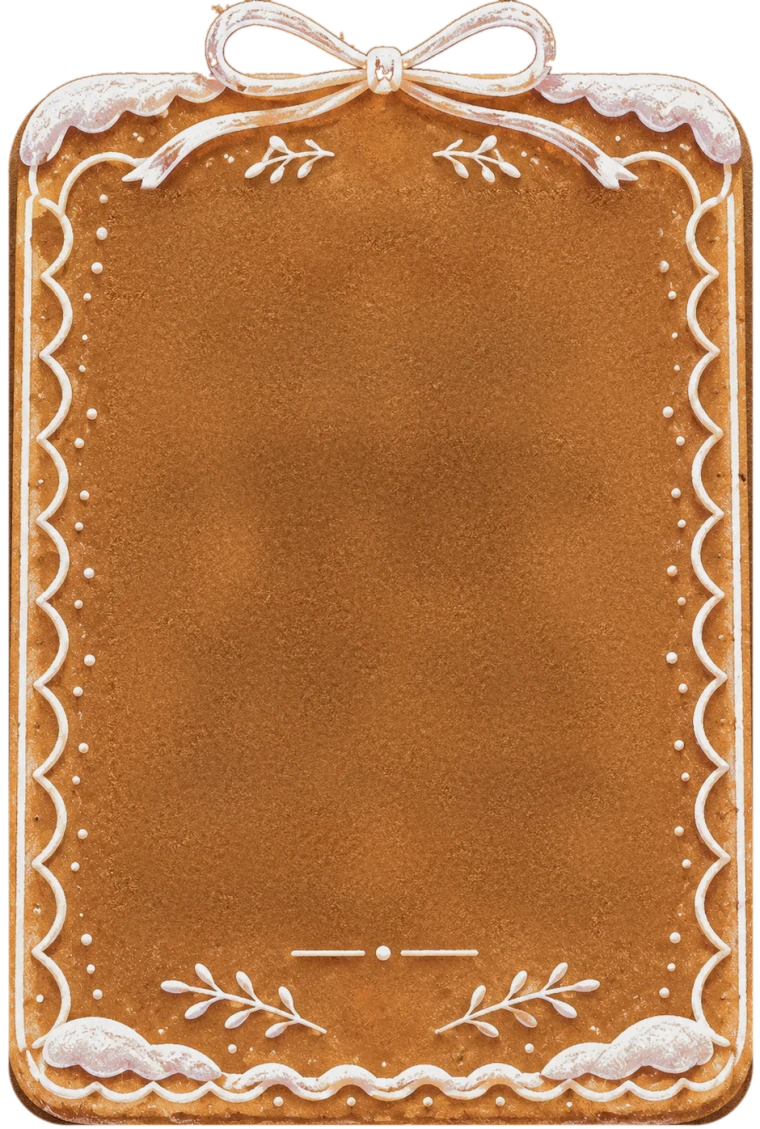
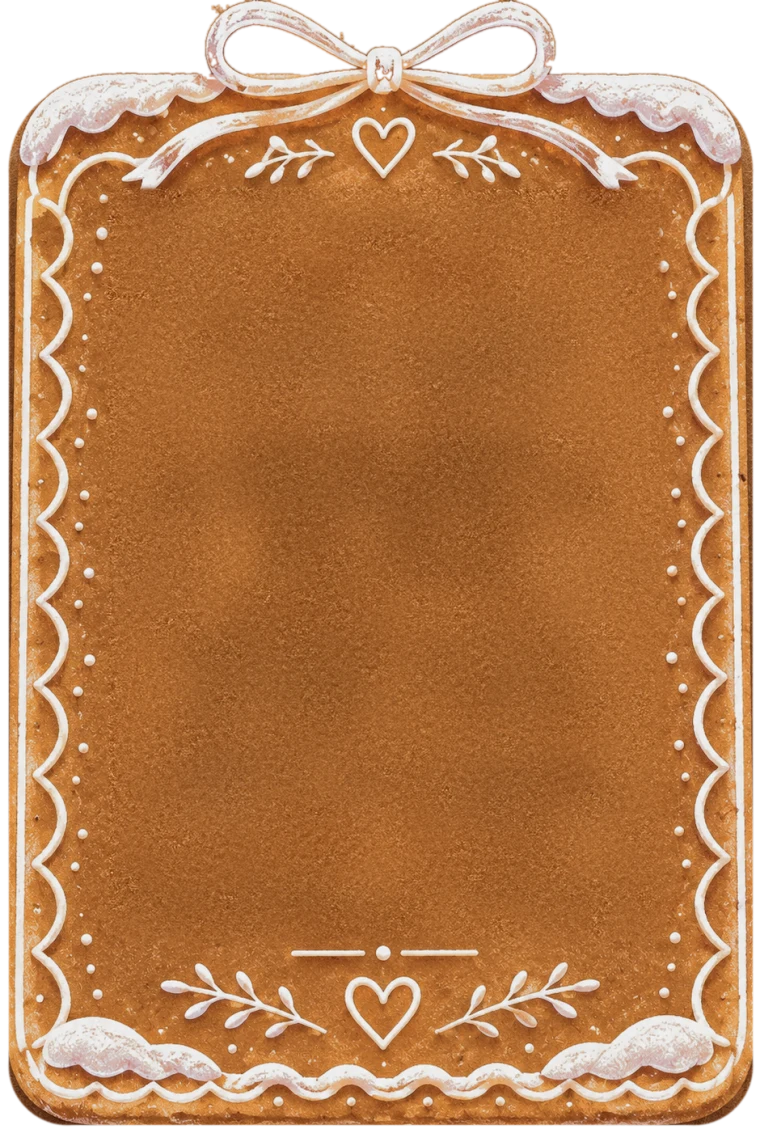
Herzen wieder auf der Karte
Claude-Session: https://claude.ai/code/session_01Th1ZwhDaFACmJguCpPspif

Changed region(s): [[0.4539, 0.868, 0.575, 0.93], [0.4539, 0.093, 0.5447, 0.155]]

diff --git a/index.html b/index.html
@@ -136,11 +136,6 @@
     position: relative; aspect-ratio: 760 / 1129;
     background: url('karte-lebkuchen.webp') center / 100% 100% no-repeat;
   }
-  .card .orn { position: absolute; transform: translate(-50%, -50%);
-    filter: drop-shadow(0 .35cqw .2cqw rgba(60,25,5,.55)); }
-  .card .orn svg { display: block; width: 100%; height: 100%; }
-  .card .orn.top { left: 50.5%; top: 13.1%; width: 10.5%; }
-  .card .orn.bot { left: 50.4%; top: 89.7%; width: 11.5%; }
   .card .inner {
     --k: 1;
     position: absolute; left: 13%; right: 13%; top: 18.5%; bottom: 17%;
@@ -198,34 +193,6 @@
   </button>
   <div class="cardwrap">
     <div class="card">
-      <div class="orn top"><svg viewBox="-24 -24 48 48" fill="none" stroke-linecap="round" stroke-linejoin="round">
-          <defs><g id="arm"><path d="M0 -3 V-19 M0 -9.5 L-5 -14 M0 -9.5 L5 -14 M0 -15 L-3 -18.5 M0 -15 L3 -18.5"/></g></defs>
-          <g stroke="#e6d8c6" stroke-width="3.6" transform="translate(0 .6)">
-            <use href="#arm"/><use href="#arm" transform="rotate(60)"/><use href="#arm" transform="rotate(120)"/>
-            <use href="#arm" transform="rotate(180)"/><use href="#arm" transform="rotate(240)"/><use href="#arm" transform="rotate(300)"/>
-          </g>
-          <g stroke="#fffaf3" stroke-width="2.9">
-            <use href="#arm"/><use href="#arm" transform="rotate(60)"/><use href="#arm" transform="rotate(120)"/>
-            <use href="#arm" transform="rotate(180)"/><use href="#arm" transform="rotate(240)"/><use href="#arm" transform="rotate(300)"/>
-          </g>
-          <circle r="3.2" fill="#fffaf3"/><circle cx="-.8" cy="-.9" r="1.1" fill="#ffffff"/>
-          <g fill="#fffaf3"><circle cy="-21.5" r="1.4"/><circle cy="-21.5" r="1.4" transform="rotate(60)"/><circle cy="-21.5" r="1.4" transform="rotate(120)"/>
-          <circle cy="-21.5" r="1.4" transform="rotate(180)"/><circle cy="-21.5" r="1.4" transform="rotate(240)"/><circle cy="-21.5" r="1.4" transform="rotate(300)"/></g>
-        </svg></div>
-      <div class="orn bot"><svg viewBox="-24 -24 48 48" fill="none" stroke-linecap="round" stroke-linejoin="round">
-          <defs><g id="arm2"><path d="M0 -3 V-19 M0 -9.5 L-5 -14 M0 -9.5 L5 -14 M0 -15 L-3 -18.5 M0 -15 L3 -18.5"/></g></defs>
-          <g stroke="#e6d8c6" stroke-width="3.6" transform="translate(0 .6)">
-            <use href="#arm2"/><use href="#arm2" transform="rotate(60)"/><use href="#arm2" transform="rotate(120)"/>
-            <use href="#arm2" transform="rotate(180)"/><use href="#arm2" transform="rotate(240)"/><use href="#arm2" transform="rotate(300)"/>
-          </g>
-          <g stroke="#fffaf3" stroke-width="2.9">
-            <use href="#arm2"/><use href="#arm2" transform="rotate(60)"/><use href="#arm2" transform="rotate(120)"/>
-            <use href="#arm2" transform="rotate(180)"/><use href="#arm2" transform="rotate(240)"/><use href="#arm2" transform="rotate(300)"/>
-          </g>
-          <circle r="3.2" fill="#fffaf3"/><circle cx="-.8" cy="-.9" r="1.1" fill="#ffffff"/>
-          <g fill="#fffaf3"><circle cy="-21.5" r="1.4"/><circle cy="-21.5" r="1.4" transform="rotate(60)"/><circle cy="-21.5" r="1.4" transform="rotate(120)"/>
-          <circle cy="-21.5" r="1.4" transform="rotate(180)"/><circle cy="-21.5" r="1.4" transform="rotate(240)"/><circle cy="-21.5" r="1.4" transform="rotate(300)"/></g>
-        </svg></div>
       <div class="inner" id="inner">
         <h2 id="title">Türchen Nr. 1</h2>
         <div class="divider"><span></span><span></span><span></span></div>
